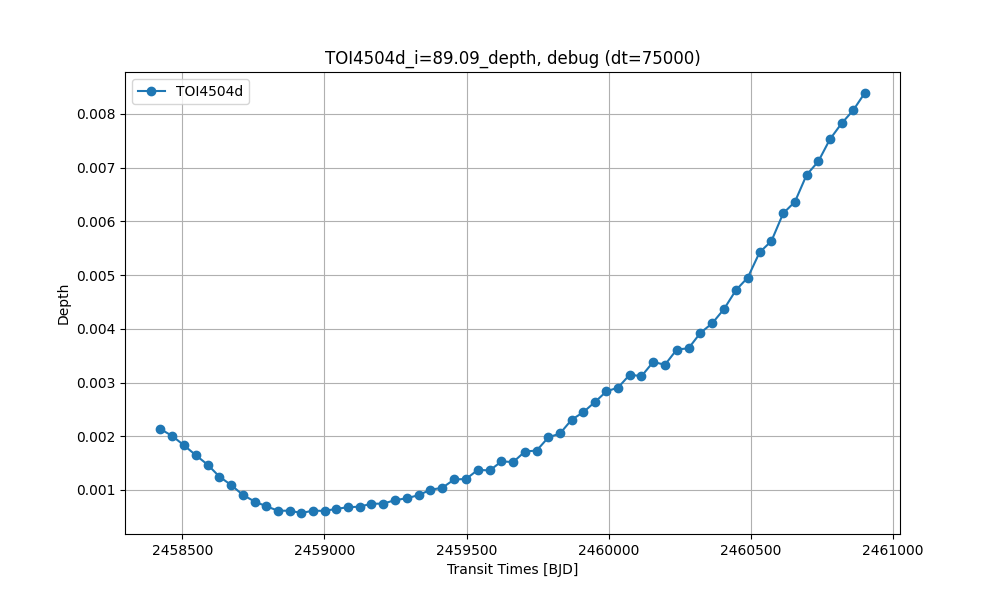
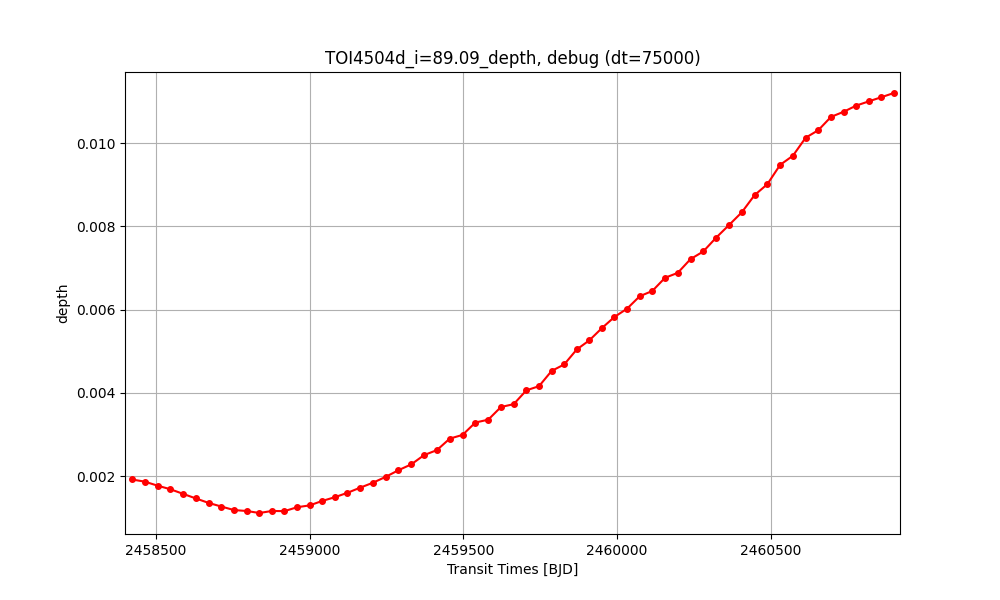
0.5.6 Fitting TOI-4504

diff --git a/src/curvesimulator/curvesim.py b/src/curvesimulator/curvesim.py
@@ -115,12 +115,14 @@ class CurveSimulator:
             self.results = results
             vitkova_debug = True
             if vitkova_debug:
-                p.eclipsers = ["TOI4504c"]
+                p.eclipsers = ["TOI4504d"]
                 p.eclipsees = ["TOI4504"]
-                results.plot_parameter("TOI4504c", "TOI4504", "T14", time_d[0], time_d[-1],
-                                        filename=f"TOI4504c_i={bodies[2].i*p.rad2deg:.2f}_T14.png")
+                # results.plot_parameter("TOI4504c", "TOI4504", "T14", time_d[0], time_d[-1],
+                #                         filename=f"TOI4504c_i={bodies[2].i*p.rad2deg:.2f}_T14.png")
                 results.plot_parameter("TOI4504d", "TOI4504", "T14", time_d[0], time_d[-1],
                                         filename=f"TOI4504d_i={bodies[1].i*p.rad2deg:.2f}_T14.png")
+                results.plot_parameter("TOI4504d", "TOI4504", "depth", time_d[0], time_d[-1],
+                                        filename=f"TOI4504d_i={bodies[1].i*p.rad2deg:.2f}_depth.png")
 
                 # measured_tt = CurveSimMCMC.get_measured_tt(p)
                 # p.bodynames2bodies(bodies)

diff --git a/src/run_curvesim.py b/src/run_curvesim.py
@@ -25,8 +25,8 @@ def main():
     # curvesimulation = CurveSimulator(config_file="../configurations/Sim/TOI-4504_SIM_X045.ini")
     # curvesimulation = CurveSimulator(config_file="../configurations/TOI4504/debug.ini")
     # curvesimulation = CurveSimulator(config_file="../configurations/TOI4504/TOI-4504_T061.ini")
-    # curvesimulation = CurveSimulator(config_file="../configurations/TOI4504/TOI-4504_F056.ini")
-    curvesimulation = CurveSimulator(config_file="../configurations/TOI4504/TOI-4504_Vitkova.ini")
+    curvesimulation = CurveSimulator(config_file="../configurations/TOI4504/1run.ini")
+    # curvesimulation = CurveSimulator(config_file="../configurations/TOI4504/TOI-4504_Vitkova.ini")
     print(curvesimulation)
 
 
